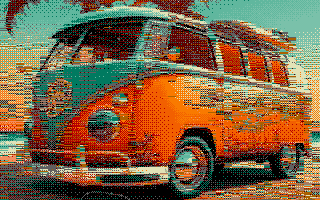
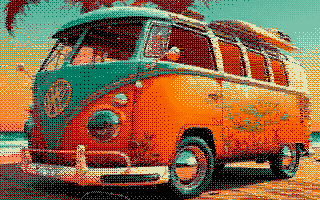
error on best couple cash

diff --git a/bayermo6.c b/bayermo6.c
@@ -189,48 +189,48 @@ int main(int argc, char *argv[])
 				// Plus de 2 couleurs
 
 				// cas simple on prend les 2 couleurs les plus frequentes
-				Couple two_most = find_two_most_frequent(&histo);
-				c1 = two_most.c1;
-				c2 = two_most.c2;
+				// Couple two_most = find_two_most_frequent(&histo);
+				// c1 = two_most.c1;
+				// c2 = two_most.c2;
 
 
 				// cas meilleur couples
-				// list best_couples;
-				// best_couples = list_init(sizeof(Couple));
-				// find_best_couple(&histo, mo6_palette, PALETTE_SIZE, &best_couples);
-				// // display_couples(&best_couples);
+				list best_couples;
+				best_couples = list_init(sizeof(Couple));
+				find_best_couple(&histo, mo6_palette, PALETTE_SIZE, &best_couples);
+				// display_couples(&best_couples);
 
-				// if (list_size(best_couples) == 1) {
-				// 	Couple best;
-				// 	list_get_at(&best, best_couples, 0);
-				// 	c1 = best.c1;
-				// 	c2 = best.c2;
-				// } else {
-				// 	double dm = DBL_MAX;
-				// 	for (int i = 0; i < list_size(best_couples); i++) {
-				// 		Couple couple;
-				// 		list_get_at(&couple, best_couples, i);
-				// 		double d = 0;
-				// 		for (int k = 0; k < 8; k++) {
-				// 			int qk = q[k];
-				// 			int p = distance_between_colors(qk, couple.c1, mo6_palette) <
-				// 							distance_between_colors(qk, couple.c2, mo6_palette)
-				// 						? couple.c1
-				// 						: couple.c2;
-				// 			Color e = color_mul(
-				// 				color_sub(fromColorPalette(mo6_palette[qk]), fromColorPalette(mo6_palette[p])), COEF);
-				// 			// Color z = color_add(get_average_pixel(linearized_image, width, height, x + k, y + 1), e);
-				// 			Color z = color_add(get_average_pixel(original_image, width, height, x + k, y + 1), e);
-				// 			d += clamp_deviation(z.r) + clamp_deviation(z.g) + clamp_deviation(z.b);
-				// 		}
-				// 		if (d <= dm) {
-				// 			dm = d;
-				// 			c1 = couple.c1;
-				// 			c2 = couple.c2;
-				// 		}
-				// 	}
-				// }
-				// list_destroy(best_couples);
+				if (list_size(best_couples) == 1) {
+					Couple best;
+					list_get_at(&best, best_couples, 0);
+					c1 = best.c1;
+					c2 = best.c2;
+				} else {
+					double dm = DBL_MAX;
+					for (int i = 0; i < list_size(best_couples); i++) {
+						Couple couple;
+						list_get_at(&couple, best_couples, i);
+						double d = 0;
+						for (int k = 0; k < 8; k++) {
+							int qk = q[k];
+							int p = distance_between_colors(qk, couple.c1, mo6_palette) <
+											distance_between_colors(qk, couple.c2, mo6_palette)
+										? couple.c1
+										: couple.c2;
+							Color e = color_mul(
+								color_sub(fromColorPalette(mo6_palette[qk]), fromColorPalette(mo6_palette[p])), COEF);
+							// Color z = color_add(get_average_pixel(linearized_image, width, height, x + k, y + 1), e);
+							Color z = color_add(get_average_pixel(original_image, width, height, x + k, y + 1), e);
+							d += clamp_deviation(z.r) + clamp_deviation(z.g) + clamp_deviation(z.b);
+						}
+						if (d <= dm) {
+							dm = d;
+							c1 = couple.c1;
+							c2 = couple.c2;
+						}
+					}
+				}
+				list_destroy(best_couples);
 			}
 			for (int k = 0; k < 8; k++) {
 				int z = x + k;

diff --git a/useful.c b/useful.c
@@ -426,21 +426,21 @@ void find_best_couple(const map *histo, const ColorPalette *palette, int palette
 		best_couples_map = map_init(sizeof(char[64]), sizeof(list), string_cmp);
 	}
 
-	char key[64];
-	generateKey(histo, key);
-	// printf("Key: %s\n", key);
+	// char key[64];
+	// generateKey(histo, key);
+	// // printf("Key: %s\n", key);
 
-	if (map_contains(best_couples_map, key)) {
-		// copy le resultat du cache dans best_couples
-		list_clear(*best_couples);
-		list best_couples_copy = list_init(sizeof(Couple));
-		map_get(&best_couples_copy, best_couples_map, key);
-		Couple *best_couples_array = (Couple *)malloc(list_size(best_couples_copy) * sizeof(Couple));
-		list_copy_to_array(best_couples_array, best_couples_copy);
-		list_add_all(*best_couples, best_couples_array, list_size(best_couples_copy));
-		free(best_couples_array);
-		return;
-	}
+	// if (map_contains(best_couples_map, key)) {
+	// 	// copy le resultat du cache dans best_couples
+	// 	list_clear(*best_couples);
+	// 	list best_couples_copy = list_init(sizeof(Couple));
+	// 	map_get(&best_couples_copy, best_couples_map, key);
+	// 	Couple *best_couples_array = (Couple *)malloc(list_size(best_couples_copy) * sizeof(Couple));
+	// 	list_copy_to_array(best_couples_array, best_couples_copy);
+	// 	list_add_all(*best_couples, best_couples_array, list_size(best_couples_copy));
+	// 	free(best_couples_array);
+	// 	return;
+	// }
 
 	list_clear(*best_couples);
 
@@ -474,12 +474,12 @@ void find_best_couple(const map *histo, const ColorPalette *palette, int palette
 	}
 
 	// met a jour le cache en copiant best_couples
-	Couple *best_couples_array = (Couple *)malloc(list_size(*best_couples) * sizeof(Couple));
-	list_copy_to_array(best_couples_array, *best_couples);
-	list best_couples_copy = list_init(sizeof(Couple));
-	list_add_all(best_couples_copy, best_couples_array, list_size(*best_couples));
-	map_put(best_couples_map, key, &best_couples_copy);
-	free(best_couples_array);
+	// Couple *best_couples_array = (Couple *)malloc(list_size(*best_couples) * sizeof(Couple));
+	// list_copy_to_array(best_couples_array, *best_couples);
+	// list best_couples_copy = list_init(sizeof(Couple));
+	// list_add_all(best_couples_copy, best_couples_array, list_size(*best_couples));
+	// map_put(best_couples_map, key, &best_couples_copy);
+	// free(best_couples_array);
 }
 
 void free_best_couples_map() {
